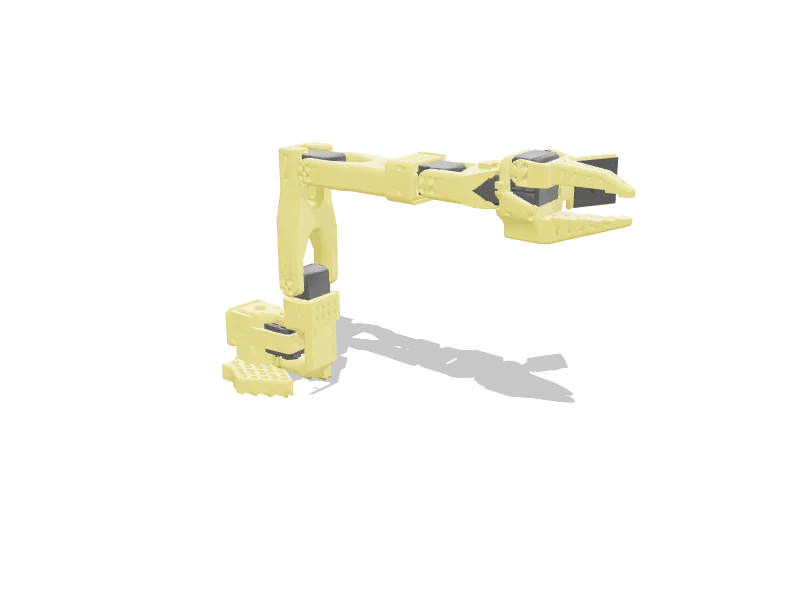
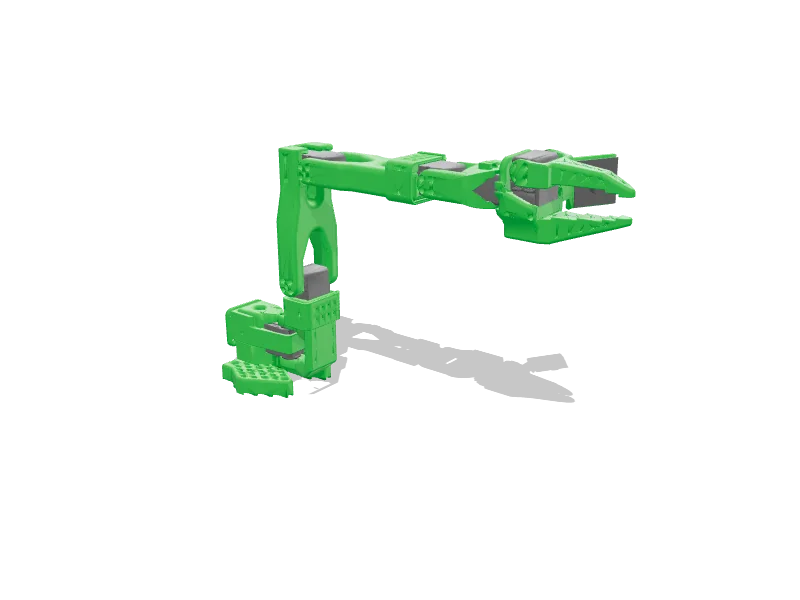
docs(viewer): the SO-101 prints in Strands green (#4207)
* docs(viewer): the SO-101 prints in Strands green

The viewer showed the SO-101 in the menagerie model's yellow. Its printed parts
are whatever colour the kit was printed in, so the site prints them in the
Strands green and keeps the STS3215 servos black, in both colour schemes and in
the catalog thumbnail.

A palette per robot in the viewer manifest (_BRAND_PALETTES in manifest.py) maps
a model colour, as the MJCF spells it, to a theme token; the viewer resolves the
token against --sr-accent-bright at build and again on every palette toggle, a
little deeper on the dark stage whose lights would otherwise lift it to mint.
tests/test_docs_viewer_brand_palette.py pins the tokens, the robots and the one
rule.

* docs(changelog): fragment takes its number (#4207)

Changed region(s): [[0.2812, 0.24, 0.8125, 0.66]]

diff --git a/docs/assets/viewer/robot-viewer.js b/docs/assets/viewer/robot-viewer.js
@@ -731,11 +731,14 @@ class RobotViewer extends HTMLElement {
       const matid = m.geom_matid[g];
       if (matid >= 0) rgba = [m.mat_rgba[4 * matid], m.mat_rgba[4 * matid + 1], m.mat_rgba[4 * matid + 2], m.mat_rgba[4 * matid + 3]];
       const isPlane = type === G.PLANE;
+      // A manifest palette rule swaps a model colour for one of the site's (the SO-101's printed parts
+      // become Strands green); the token resolves against the theme, so it follows the palette toggle.
+      const brand = this._brandToken(rgba);
       // The floor only catches the shadow; the stage colour behind it is the page's CSS.
       const material = isPlane
         ? new THREE.ShadowMaterial({ color: 0x000000, opacity: theme.shadow, transparent: true, side: THREE.DoubleSide })
         : new THREE.MeshStandardMaterial({
-            color: new THREE.Color(rgba[0], rgba[1], rgba[2]),
+            color: brand ? this._brandColor(THREE, theme, brand) : new THREE.Color(rgba[0], rgba[1], rgba[2]),
             roughness: 0.5,
             metalness: 0.1,
             envMapIntensity: theme.env,
@@ -746,7 +749,7 @@ class RobotViewer extends HTMLElement {
       mesh.castShadow = !isPlane;
       mesh.receiveShadow = true;
       mesh.matrixAutoUpdate = false;
-      mesh.userData = { geom: g, group, collision: HIDDEN_GROUPS.has(group), plane: isPlane };
+      mesh.userData = { geom: g, group, collision: HIDDEN_GROUPS.has(group), plane: isPlane, brand };
       scene.add(mesh);
       geomMeshes.push(mesh);
     }
@@ -819,7 +822,22 @@ class RobotViewer extends HTMLElement {
       shadow: dark ? 0.55 : 0.22,
       env: dark ? 1.25 : 0.85,
       exposure: dark ? 1.05 : 0.88,
+      accent: v("--sr-accent-bright", dark ? "#00cc60" : "#02a435"),
     };
+  }
+
+  /** A brand token as a lit material colour: the dark stage's lights lift it, so it starts a little deeper there. */
+  _brandColor(THREE, theme, token) {
+    return new THREE.Color(theme[token]).multiplyScalar(theme.dark ? 0.62 : 1);
+  }
+
+  /** The palette token a geom colour maps to (manifest `palette` rules), or null to keep the model's own. */
+  _brandToken(rgba) {
+    for (const rule of this._entry?.palette ?? []) {
+      const [r, g, b] = rule.from;
+      if (Math.abs(r - rgba[0]) < 0.02 && Math.abs(g - rgba[1]) < 0.02 && Math.abs(b - rgba[2]) < 0.02) return rule.to;
+    }
+    return null;
   }
 
   /** Re-read the theme after a palette toggle and recolour the grid, floor shadow and reflections. */
@@ -844,6 +862,7 @@ class RobotViewer extends HTMLElement {
     for (const mesh of this._three.geomMeshes) {
       if (mesh.userData.plane) mesh.material.opacity = theme.shadow;
       else if (mesh.material.envMapIntensity !== undefined) mesh.material.envMapIntensity = theme.env;
+      if (mesh.userData.brand) mesh.material.color.copy(this._brandColor(THREE, theme, mesh.userData.brand));
     }
   }
 

diff --git a/tests/test_docs_viewer_brand_palette.py b/tests/test_docs_viewer_brand_palette.py
@@ -1,0 +1,73 @@
+"""The viewer's brand palette: which model colours the docs repaint, and with what.
+
+``docs/hooks/manifest.py`` carries ``_BRAND_PALETTES``: for a robot, a list of
+rules mapping a colour the MJCF spells (``from``, rgb in 0..1) to a token the
+viewer resolves against the page theme (``to``). The SO-101's printed parts are
+yellow in the menagerie model and Strands green on the site; its servos stay
+black. Two things would fail silently without this guard: a token the viewer's
+``_theme()`` does not define paints the part black, and a rule for a robot the
+viewer cannot render (or that is not in the registry) is dead configuration.
+"""
+
+from __future__ import annotations
+
+import importlib.util
+import re
+from pathlib import Path
+
+REPO_ROOT = Path(__file__).resolve().parent.parent
+MANIFEST_HOOK = REPO_ROOT / "docs" / "hooks" / "manifest.py"
+VIEWER = REPO_ROOT / "docs" / "assets" / "viewer" / "robot-viewer.js"
+
+
+def _hook():
+    spec = importlib.util.spec_from_file_location("docs_manifest_hook", MANIFEST_HOOK)
+    assert spec is not None and spec.loader is not None
+    module = importlib.util.module_from_spec(spec)
+    spec.loader.exec_module(module)
+    return module
+
+
+def _theme_tokens() -> set[str]:
+    """The keys ``_theme()`` returns, read from the viewer source."""
+    src = VIEWER.read_text(encoding="utf-8")
+    body = re.search(r"_theme\(\) \{.*?return \{(.*?)\n    \};", src, re.S)
+    assert body, "robot-viewer.js has no _theme() returning an object literal"
+    return set(re.findall(r"^\s*(\w+):", body.group(1), re.M))
+
+
+def test_every_palette_rule_is_well_formed_and_resolvable() -> None:
+    hook = _hook()
+    tokens = _theme_tokens()
+    for robot, rules in hook._BRAND_PALETTES.items():
+        assert rules, f"{robot}: empty palette"
+        for rule in rules:
+            rgb = rule["from"]
+            assert len(rgb) == 3 and all(0.0 <= float(c) <= 1.0 for c in rgb), (
+                f"{robot}: from={rgb} is not an rgb triple in 0..1"
+            )
+            assert rule["to"] in tokens, (
+                f"{robot}: token {rule['to']!r} is not a key of the viewer's _theme(); it would paint black"
+            )
+
+
+def test_every_palette_names_a_robot_the_viewer_renders() -> None:
+    manifest = _hook().build_manifest()["robots"]
+    for robot, rules in _hook()._BRAND_PALETTES.items():
+        assert robot in manifest, f"{robot} is not in the registry"
+        assert manifest[robot]["viewer"], f"{robot} never reaches the viewer; its palette is dead configuration"
+        assert manifest[robot]["palette"] == rules, f"{robot}: the manifest does not carry its palette"
+
+
+def test_robots_without_a_palette_keep_their_own_colours() -> None:
+    manifest = _hook().build_manifest()["robots"]
+    painted = {name for name, entry in manifest.items() if entry["palette"]}
+    assert painted == set(_hook()._BRAND_PALETTES), (
+        f"manifest paints {sorted(painted)}; the hook lists {sorted(_hook()._BRAND_PALETTES)}"
+    )
+
+
+def test_the_so101_prints_in_strands_green() -> None:
+    """The one rule this landed with: the menagerie's yellow (1, 0.82, 0.12) becomes the accent."""
+    rules = _hook()._BRAND_PALETTES["so101"]
+    assert {"from": [1.0, 0.82, 0.12], "to": "accent"} in rules

diff --git a/docs/hooks/manifest.py b/docs/hooks/manifest.py
@@ -47,6 +47,15 @@ _REPO_MOVES: dict[str, str] = {"asimovinc/asimov-v0": "menloresearch/asimov-v0"}
 #: aero_hand: the registry says scene_left.xml, the menagerie ships scene_right.xml.
 _SCENE_OVERRIDES: dict[str, str] = {"aero_hand": "scene_right.xml"}
 
+#: Colours the viewer swaps for the site's own. Every value is one rule per source colour
+#: (the MJCF material's rgb, as the model file spells it) and a token the viewer resolves
+#: against the page theme: ``accent`` is the Strands green (``--sr-accent-bright``). The
+#: SO-101's printed parts are whatever colour the kit was printed in; the menagerie model
+#: prints them yellow, the docs print them green, and the STS3215 servos stay black.
+_BRAND_PALETTES: dict[str, list[dict[str, object]]] = {
+    "so101": [{"from": [1.0, 0.82, 0.12], "to": "accent"}],
+}
+
 #: Models the browser build cannot compile, with the reason the viewer shows.
 _VIEWER_UNSUPPORTED: dict[str, str] = {
     "rby1": "its MJCF includes the same file twice with merge=true, which the WebAssembly build refuses",
@@ -153,6 +162,7 @@ def build_manifest() -> dict:
             "scene": _SCENE_OVERRIDES.get(name, asset.get("scene_xml")) if base else None,
             "model": asset.get("model_xml") if base else None,
             "thumbnail": f"assets/img/robots/{name}.webp" if thumb.exists() else None,
+            "palette": _BRAND_PALETTES.get(name),
         }
         out[name] = entry
     return {"menagerie_ref": MENAGERIE_REF, "robots": out}

diff --git a/changelog.d/4207-so101-strands-green.md b/changelog.d/4207-so101-strands-green.md
@@ -1,0 +1,11 @@
+### Docs: the SO-101 prints in Strands green on the site
+
+The docs viewer showed the SO-101 in the menagerie model's yellow. Its printed
+parts are whatever colour the kit was printed in, so the site now prints them in
+the Strands green and keeps the STS3215 servos black, in the 3D viewer (both
+colour schemes, following the palette toggle) and in the catalog thumbnail. The
+mechanism is a `palette` per robot in the viewer manifest (`docs/hooks/manifest.py`
+`_BRAND_PALETTES`): a model colour as the MJCF spells it and a theme token the
+viewer resolves. `tests/test_docs_viewer_brand_palette.py` pins that every token
+exists in the viewer's theme, that every painted robot is one the viewer renders,
+and that no other robot is repainted (#4207).
